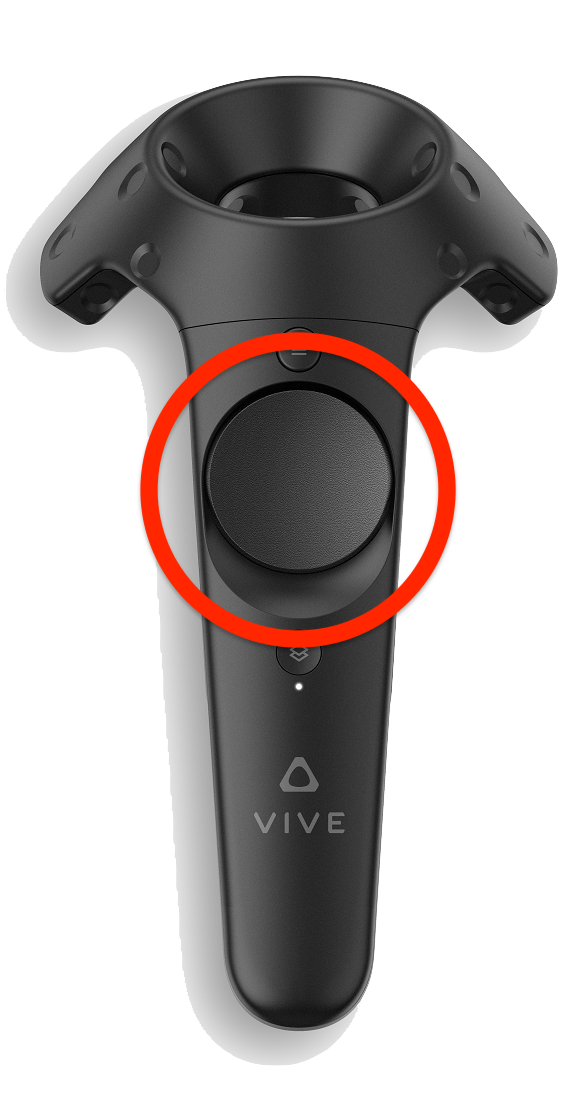
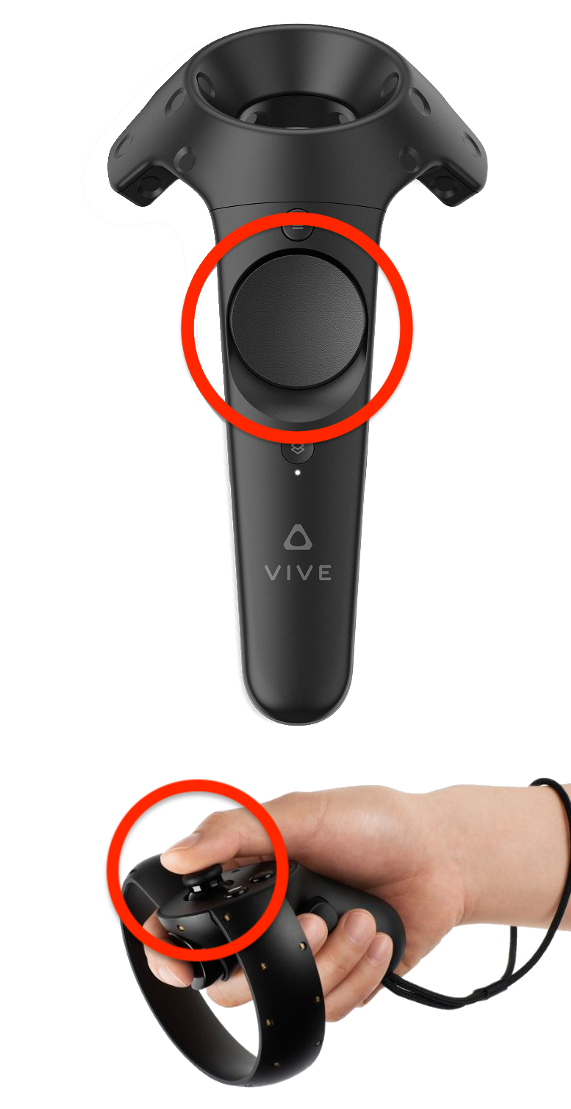
update hopefully for Rift controllers

diff --git a/Assets/PerformanceBounceback/Scripts/CrossDevice.cs b/Assets/PerformanceBounceback/Scripts/CrossDevice.cs
@@ -1,0 +1,47 @@
+using System.Collections;
+using System.Collections.Generic;
+using UnityEngine;
+using Valve.VR; 
+
+/* 
+Utility class to deterimine VR device bitmasks 
+https://steamcommunity.com/app/358720/discussions/0/1842367319519332721/
+*/
+
+public static class CrossDevice { 
+    public enum Type { Vive, OculusTouch } 
+    
+    public static Type type { get; private set; } 
+    public static ulong button_grab { get; private set; } 
+    public static ulong button_grabTip { get; private set; } 
+    public static ulong button_teleport { get; private set; } 
+    public static ulong button_context { get; private set; } 
+    public static ulong button_delete { get; private set; } 
+    
+    const string model_vive1 = "Vive MV"; 
+    const string model_rift1 = "Oculus Rift CV1"; 
+    
+    public static void Init() { 
+        string model = UnityEngine.XR.XRDevice.model != null ? UnityEngine.XR.XRDevice.model : ""; 
+        if ( model.IndexOf("Rift") >= 0 ) { 
+            type = Type.OculusTouch; 
+            ulong buttonXA = (1ul << (int)EVRButtonId.k_EButton_A); 
+            button_grab = SteamVR_Controller.ButtonMask.Grip; 
+            button_grabTip = SteamVR_Controller.ButtonMask.Trigger; 
+            button_teleport = buttonXA; 
+            button_context = SteamVR_Controller.ButtonMask.ApplicationMenu; 
+            button_delete = SteamVR_Controller.ButtonMask.Touchpad; 
+        } 
+        else { 
+            type = Type.Vive; 
+            button_grab = SteamVR_Controller.ButtonMask.Trigger; 
+            button_grabTip = SteamVR_Controller.ButtonMask.Trigger; 
+            button_teleport = SteamVR_Controller.ButtonMask.Touchpad; 
+            button_context = SteamVR_Controller.ButtonMask.ApplicationMenu; 
+            button_delete = SteamVR_Controller.ButtonMask.Grip; 
+        } 
+    } 
+    
+    
+} 
+    

diff --git a/Assets/PerformanceBounceback/Scripts/Throw.cs b/Assets/PerformanceBounceback/Scripts/Throw.cs
@@ -20,7 +20,7 @@ public class Throw : MonoBehaviour
     void Update()
     {
         device = SteamVR_Controller.Input((int)trackedObj.index);
-        if (device.GetPressDown(SteamVR_Controller.ButtonMask.Touchpad))
+        if (device.GetPressDown(CrossDevice.button_teleport))
         {
             if (!gm.GameRunning(true))
             {
@@ -34,7 +34,7 @@ public class Throw : MonoBehaviour
     {
         if (col.gameObject.CompareTag("Throwable"))
         {
-            if (device.GetPressUp(SteamVR_Controller.ButtonMask.Trigger))
+            if (device.GetPressUp(CrossDevice.button_grab))
             {
                 Debug.Log("You have released the trigger");
 
@@ -52,7 +52,7 @@ public class Throw : MonoBehaviour
                 //Debug.Log(rigidBody.velocity);
                 rigidBody.angularVelocity = device.angularVelocity;
             }
-            else if (device.GetPressDown(SteamVR_Controller.ButtonMask.Trigger))
+            else if (device.GetPressDown(CrossDevice.button_grab))
             {
                 Debug.Log("You are touching down the trigger on an object");
                 col.GetComponent<Rigidbody>().isKinematic = true;
